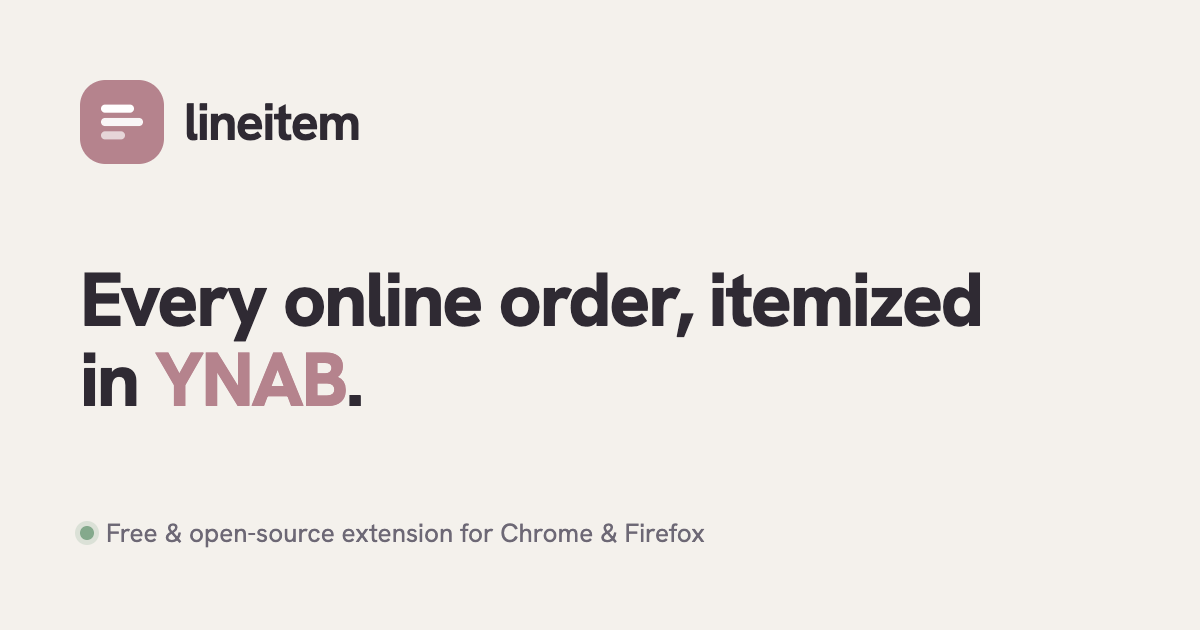
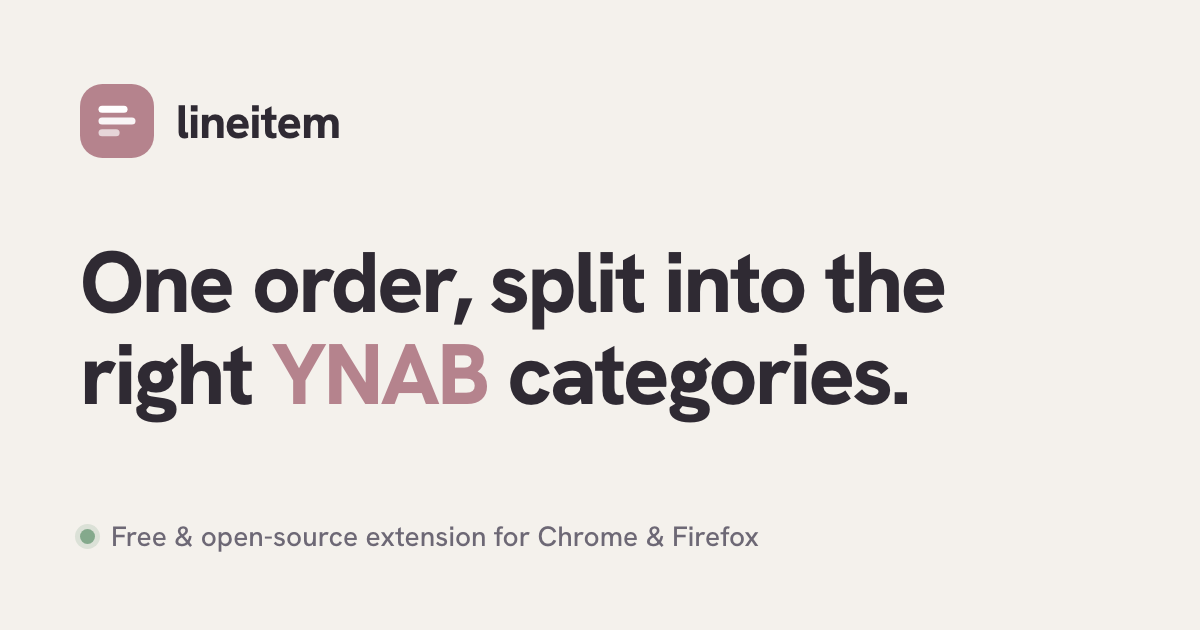
copy: regenerate og.png for new tagline + clarify hero subhead
- og.png: rebuilt 1200x630 to read "One order, split into the right
  YNAB categories." (matches the og:image:alt), faithful to the original
  design — Hanken Grotesk, brand mark, same palette and layout.
- Hero subhead: "splits each one" -> "splits each charge" to remove the
  ambiguous antecedent (each item vs each charge), per copy review.

Changed region(s): [[0.0617, 0.3921, 0.8325, 0.6937], [0.0617, 0.8143, 0.6475, 0.8746], [0.0617, 0.1206, 0.3083, 0.2714]]

diff --git a/apps/landing/src/components/Hero.tsx b/apps/landing/src/components/Hero.tsx
@@ -16,7 +16,7 @@ export default function Hero() {
         </h1>
         <p className="max-w-[30em] text-[clamp(16px,1.6vw,19px)] leading-[1.55] text-muted">
           lineitem reads the actual items behind your Amazon and Target charges in YNAB,
-          then splits each one into the right categories — so a single{" "}
+          then splits each charge into the right categories — so a single{" "}
           <span className="font-semibold text-text tabular">$42.98</span> charge becomes groceries,
           household, and the rest. Nothing posts to YNAB until you approve.
         </p>